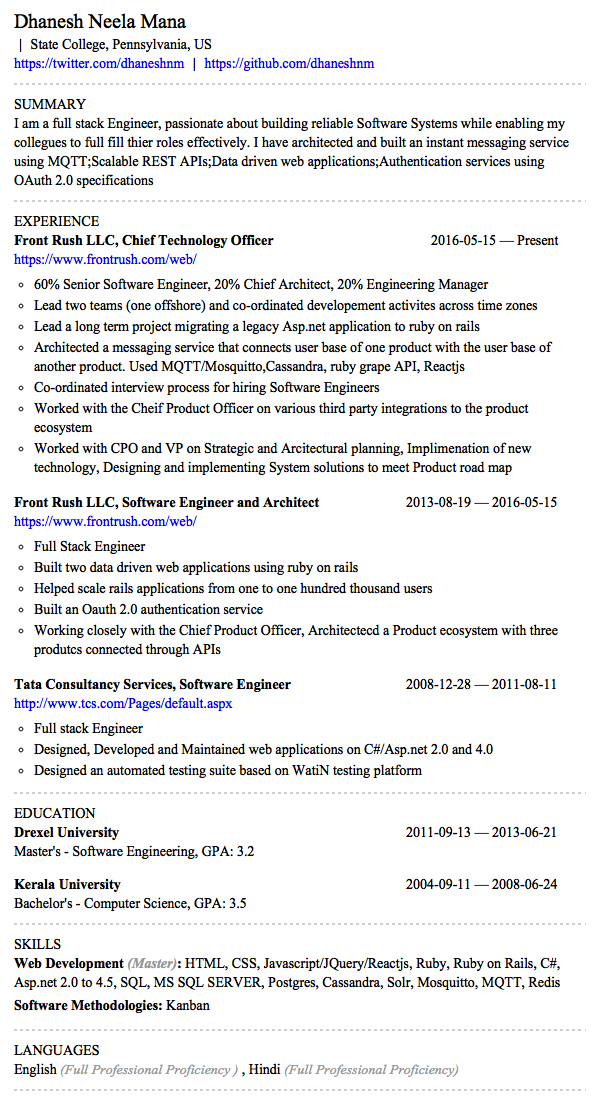
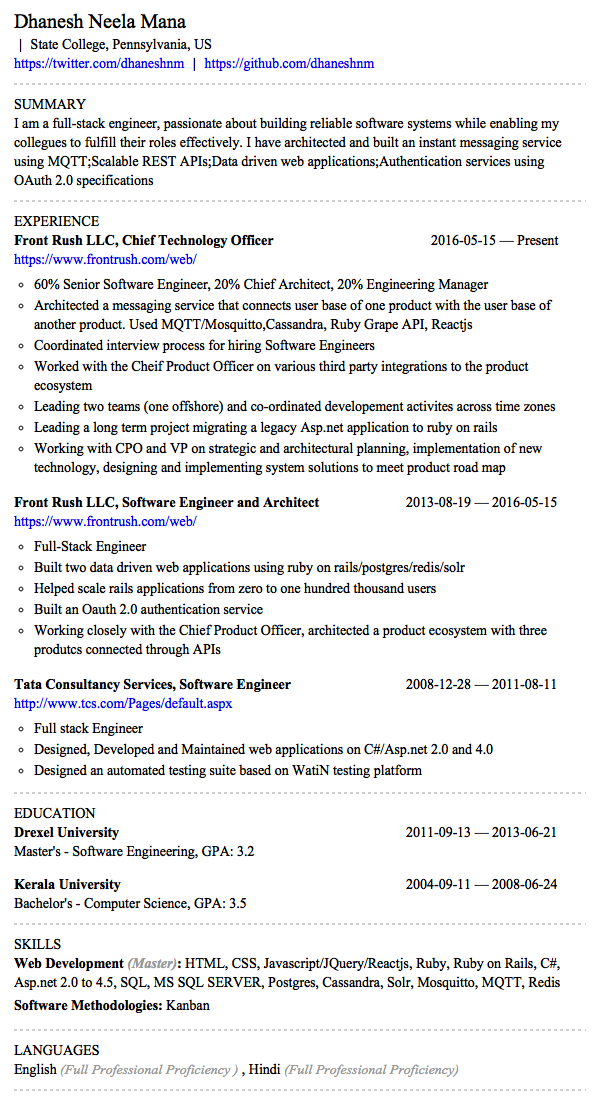
spell check

diff --git a/out/resume.html b/out/resume.html
@@ -189,7 +189,7 @@
                 <div class='sectionName'> <span>SUMMARY</span>
 
                 </div>
-                <div class='sectionContent'> <span>I am a full stack Engineer, passionate about building reliable Software Systems while enabling my collegues to full fill thier roles effectively. I have architected and built an instant messaging service using MQTT;Scalable REST APIs;Data driven web applications;Authentication services using OAuth 2.0 specifications</span>
+                <div class='sectionContent'> <span>I am a full-stack engineer, passionate about building reliable software systems while enabling my collegues to fulfill their roles effectively. I have architected and built an instant messaging service using MQTT;Scalable REST APIs;Data driven web applications;Authentication services using OAuth 2.0 specifications</span>
 
                 </div>
             </div>
@@ -212,19 +212,19 @@
                         </div>
                         <ul class='highlights'>
                             <li>60% Senior Software Engineer, 20% Chief Architect, 20% Engineering Manager</li>
-                            <li>Lead two teams (one offshore) and co-ordinated developement activites
-                                across time zones</li>
-                            <li>Lead a long term project migrating a legacy Asp.net application to ruby
-                                on rails</li>
                             <li>Architected a messaging service that connects user base of one product
-                                with the user base of another product. Used MQTT/Mosquitto,Cassandra, ruby
-                                grape API, Reactjs</li>
-                            <li>Co-ordinated interview process for hiring Software Engineers</li>
+                                with the user base of another product. Used MQTT/Mosquitto,Cassandra, Ruby
+                                Grape API, Reactjs</li>
+                            <li>Coordinated interview process for hiring Software Engineers</li>
                             <li>Worked with the Cheif Product Officer on various third party integrations
                                 to the product ecosystem</li>
-                            <li>Worked with CPO and VP on Strategic and Arcitectural planning, Implimenation
-                                of new technology, Designing and implementing System solutions to meet
-                                Product road map</li>
+                            <li>Leading two teams (one offshore) and co-ordinated developement activites
+                                across time zones</li>
+                            <li>Leading a long term project migrating a legacy Asp.net application to
+                                ruby on rails</li>
+                            <li>Working with CPO and VP on strategic and architectural planning, implementation
+                                of new technology, designing and implementing system solutions to meet
+                                product road map</li>
                         </ul>
                         <div class='separator'></div>
                     </div>
@@ -240,11 +240,11 @@
                         <div><a href='https://www.frontrush.com/web/'>https://www.frontrush.com/web/</a>
                         </div>
                         <ul class='highlights'>
-                            <li>Full Stack Engineer</li>
-                            <li>Built two data driven web applications using ruby on rails</li>
-                            <li>Helped scale rails applications from one to one hundred thousand users</li>
+                            <li>Full-Stack Engineer</li>
+                            <li>Built two data driven web applications using ruby on rails/postgres/redis/solr</li>
+                            <li>Helped scale rails applications from zero to one hundred thousand users</li>
                             <li>Built an Oauth 2.0 authentication service</li>
-                            <li>Working closely with the Chief Product Officer, Architectecd a Product
+                            <li>Working closely with the Chief Product Officer, architected a product
                                 ecosystem with three produtcs connected through APIs</li>
                         </ul>
                         <div class='separator'></div>

diff --git a/out/resume.png.html b/out/resume.png.html
@@ -189,7 +189,7 @@
                 <div class='sectionName'> <span>SUMMARY</span>
 
                 </div>
-                <div class='sectionContent'> <span>I am a full stack Engineer, passionate about building reliable Software Systems while enabling my collegues to full fill thier roles effectively. I have architected and built an instant messaging service using MQTT;Scalable REST APIs;Data driven web applications;Authentication services using OAuth 2.0 specifications</span>
+                <div class='sectionContent'> <span>I am a full-stack engineer, passionate about building reliable software systems while enabling my collegues to fulfill their roles effectively. I have architected and built an instant messaging service using MQTT;Scalable REST APIs;Data driven web applications;Authentication services using OAuth 2.0 specifications</span>
 
                 </div>
             </div>
@@ -212,19 +212,19 @@
                         </div>
                         <ul class='highlights'>
                             <li>60% Senior Software Engineer, 20% Chief Architect, 20% Engineering Manager</li>
-                            <li>Lead two teams (one offshore) and co-ordinated developement activites
-                                across time zones</li>
-                            <li>Lead a long term project migrating a legacy Asp.net application to ruby
-                                on rails</li>
                             <li>Architected a messaging service that connects user base of one product
-                                with the user base of another product. Used MQTT/Mosquitto,Cassandra, ruby
-                                grape API, Reactjs</li>
-                            <li>Co-ordinated interview process for hiring Software Engineers</li>
+                                with the user base of another product. Used MQTT/Mosquitto,Cassandra, Ruby
+                                Grape API, Reactjs</li>
+                            <li>Coordinated interview process for hiring Software Engineers</li>
                             <li>Worked with the Cheif Product Officer on various third party integrations
                                 to the product ecosystem</li>
-                            <li>Worked with CPO and VP on Strategic and Arcitectural planning, Implimenation
-                                of new technology, Designing and implementing System solutions to meet
-                                Product road map</li>
+                            <li>Leading two teams (one offshore) and co-ordinated developement activites
+                                across time zones</li>
+                            <li>Leading a long term project migrating a legacy Asp.net application to
+                                ruby on rails</li>
+                            <li>Working with CPO and VP on strategic and architectural planning, implementation
+                                of new technology, designing and implementing system solutions to meet
+                                product road map</li>
                         </ul>
                         <div class='separator'></div>
                     </div>
@@ -240,11 +240,11 @@
                         <div><a href='https://www.frontrush.com/web/'>https://www.frontrush.com/web/</a>
                         </div>
                         <ul class='highlights'>
-                            <li>Full Stack Engineer</li>
-                            <li>Built two data driven web applications using ruby on rails</li>
-                            <li>Helped scale rails applications from one to one hundred thousand users</li>
+                            <li>Full-Stack Engineer</li>
+                            <li>Built two data driven web applications using ruby on rails/postgres/redis/solr</li>
+                            <li>Helped scale rails applications from zero to one hundred thousand users</li>
                             <li>Built an Oauth 2.0 authentication service</li>
-                            <li>Working closely with the Chief Product Officer, Architectecd a Product
+                            <li>Working closely with the Chief Product Officer, architected a product
                                 ecosystem with three produtcs connected through APIs</li>
                         </ul>
                         <div class='separator'></div>

diff --git a/out/resume.pdf.html b/out/resume.pdf.html
@@ -196,7 +196,7 @@ a {
       <span>SUMMARY</span>
     </div>
     <div class='sectionContent'>
-      <span>I am a full stack Engineer, passionate about building reliable Software Systems while enabling my collegues to full fill thier roles effectively. I have architected and built an instant messaging service using MQTT;Scalable REST APIs;Data driven web applications;Authentication services using OAuth 2.0 specifications</span>
+      <span>I am a full-stack engineer, passionate about building reliable software systems while enabling my collegues to fulfill their roles effectively. I have architected and built an instant messaging service using MQTT;Scalable REST APIs;Data driven web applications;Authentication services using OAuth 2.0 specifications</span>
     </div>
   </div>
   <div class='sectionLine'></div>
@@ -218,12 +218,12 @@ a {
 	      <div><a href='https://www.frontrush.com/web/'>https://www.frontrush.com/web/</a></div>
 	      <ul class='highlights'>
 	        <li>60%  Senior Software Engineer, 20% Chief Architect, 20% Engineering Manager</li>
-	        <li>Lead two teams (one offshore) and co-ordinated developement activites across time zones</li>
-	        <li>Lead a long term project migrating a legacy Asp.net application to ruby on rails</li>
-	        <li>Architected a messaging service that connects user base of one product with the user base of another product. Used MQTT/Mosquitto,Cassandra, ruby grape API, Reactjs</li>
-	        <li>Co-ordinated interview process for hiring  Software Engineers</li>
+	        <li>Architected a messaging service that connects user base of one product with the user base of another product. Used MQTT/Mosquitto,Cassandra, Ruby Grape API, Reactjs</li>
+	        <li>Coordinated interview process for hiring  Software Engineers</li>
 	        <li>Worked with the Cheif Product Officer on various third party integrations to the product ecosystem</li>
-	        <li>Worked with CPO and VP on Strategic and Arcitectural planning, Implimenation of new technology, Designing and implementing System solutions to meet Product road map</li>
+	        <li>Leading two teams (one offshore) and co-ordinated developement activites across time zones</li>
+	        <li>Leading a long term project migrating a legacy Asp.net application to ruby on rails</li>
+	        <li>Working with CPO and VP on strategic and architectural planning, implementation of new technology, designing and implementing system solutions to meet product road map</li>
 	      </ul>
 	      <div class='separator'></div>
 			</div>
@@ -238,11 +238,11 @@ a {
 	      </div>
 	      <div><a href='https://www.frontrush.com/web/'>https://www.frontrush.com/web/</a></div>
 	      <ul class='highlights'>
-	        <li>Full Stack Engineer</li>
-	        <li>Built two data driven web applications using ruby on rails</li>
-	        <li>Helped scale rails applications from one to one hundred thousand users</li>
+	        <li>Full-Stack Engineer</li>
+	        <li>Built two data driven web applications using ruby on rails/postgres/redis/solr</li>
+	        <li>Helped scale rails applications from zero to one hundred thousand users</li>
 	        <li>Built an Oauth 2.0 authentication service</li>
-	        <li>Working closely with the Chief Product Officer, Architectecd a Product ecosystem with three produtcs connected through APIs</li>
+	        <li>Working closely with the Chief Product Officer, architected a product ecosystem with three produtcs connected through APIs</li>
 	      </ul>
 	      <div class='separator'></div>
 			</div>
